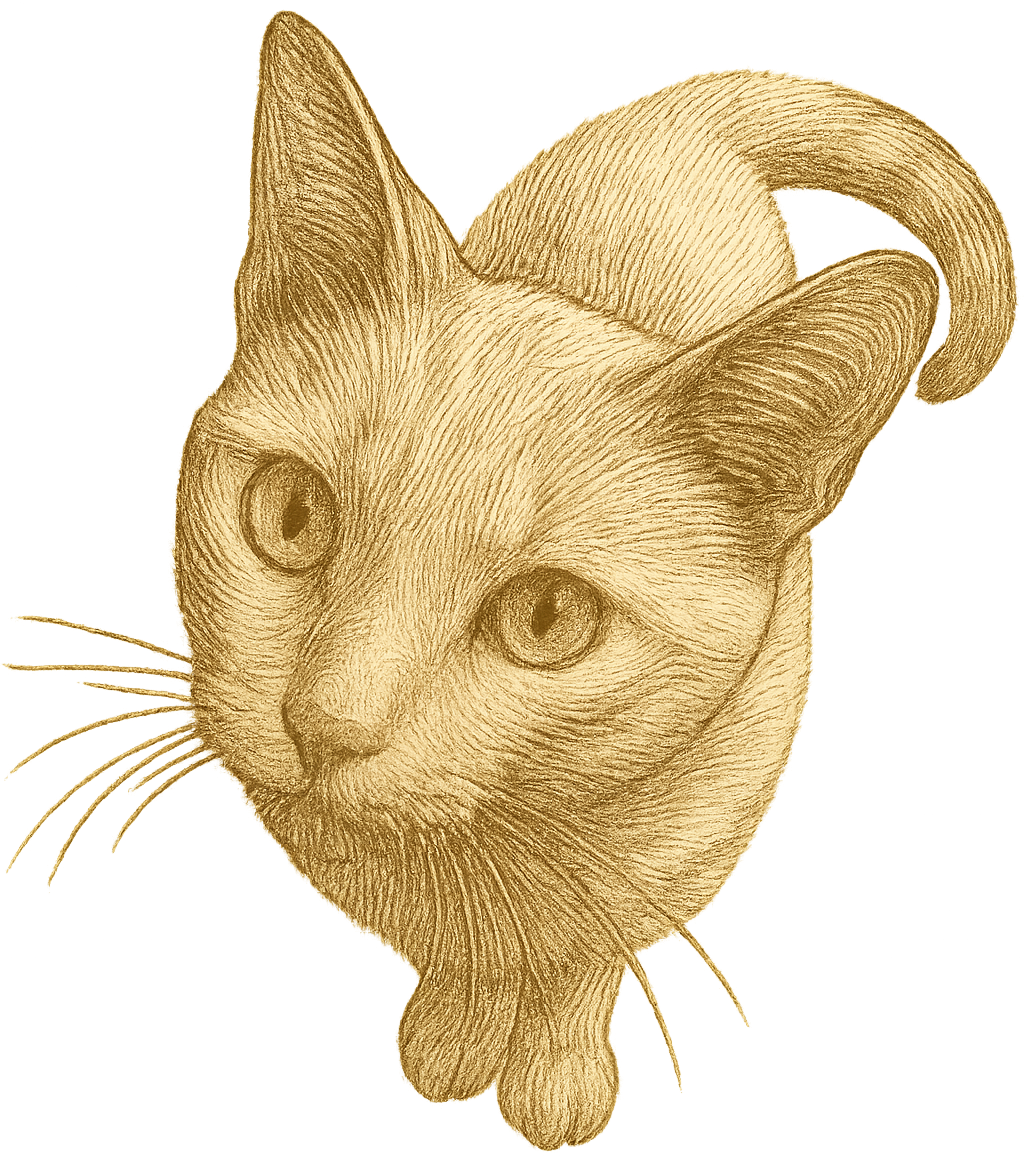
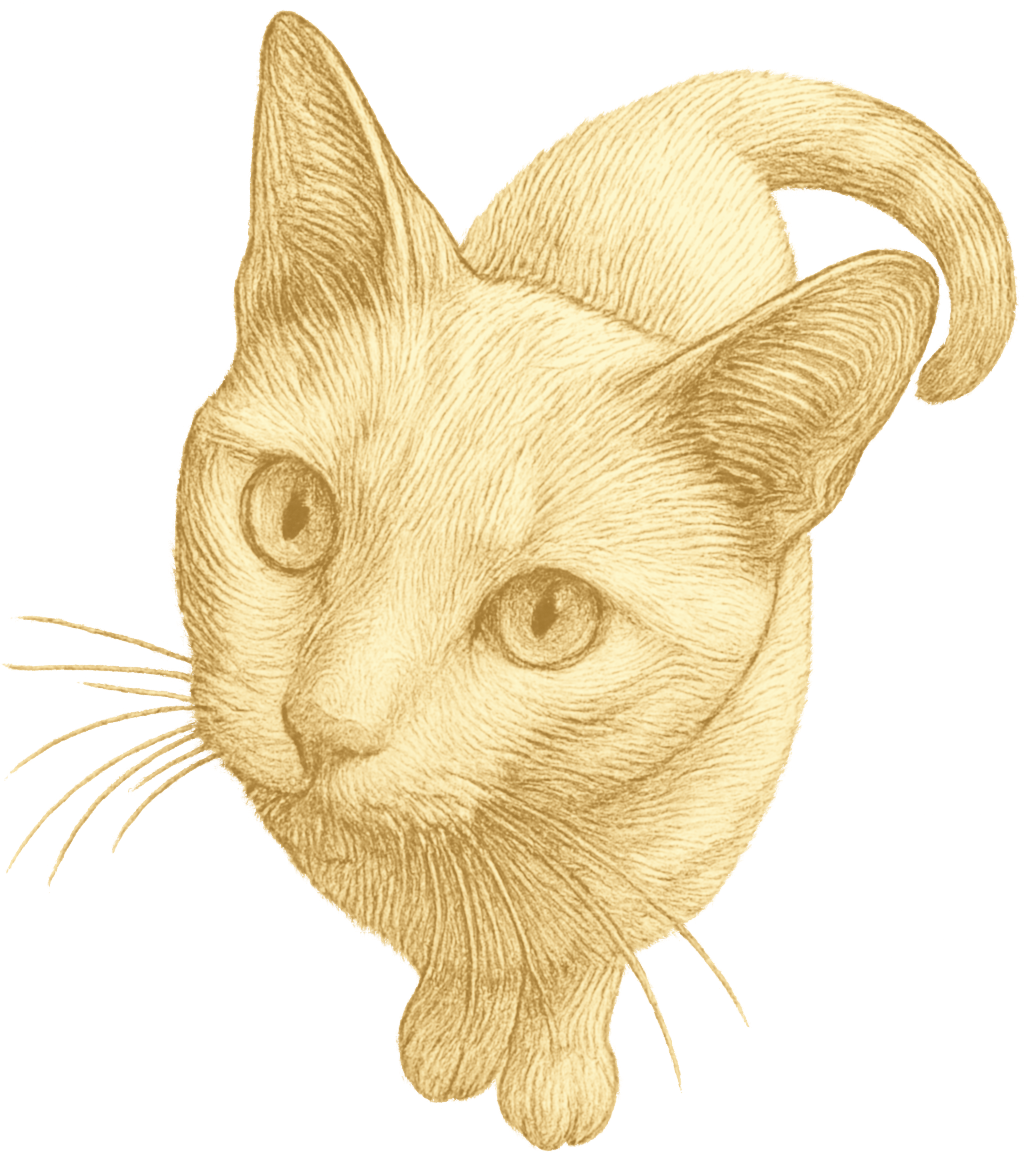
Homepage Linus: lighter, softer, toned like the Jacquard loom
Claude-Session: https://claude.ai/code/session_016R5T8HULVGKfAE3PW3pdJb

diff --git a/site/index.html b/site/index.html
@@ -55,7 +55,7 @@
 <p>I've also produced & curated a few education & technology events and projects. This is a homage to my always beloved cat Linus (2020-2025), an autobiographical exercise, repository & journal.</p>
                 </div>
                 <div class="hero-image">
-                    <img src="img/linus-home-cat.png" alt="Linus Homage" class="life-image-linus">
+                    <img src="img/linus-home-cat.png?v=2" alt="Linus Homage" class="life-image-linus">
                 </div>
             </section>
 <section id="life">
